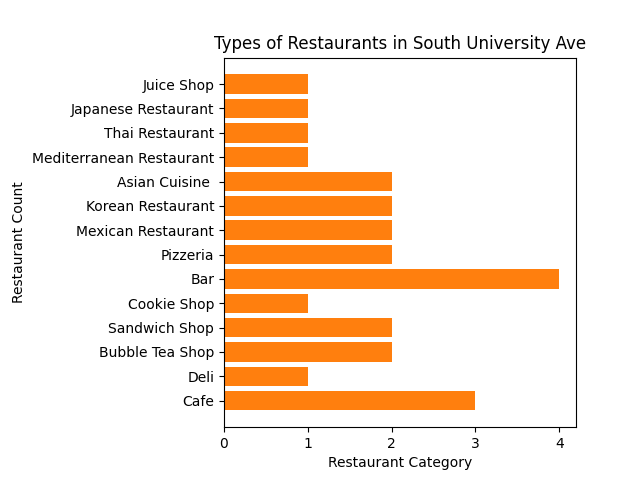
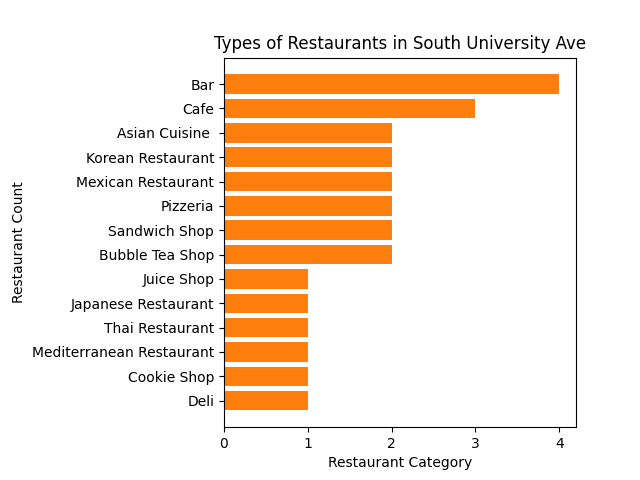
sorting chart

diff --git a/HW8.py b/HW8.py
@@ -45,8 +45,9 @@ def plot_rest_categories(db):
         cur = conn.execute("SELECT COUNT(category_id) FROM restaurants WHERE category_id == ?", (category[0], ))
         count = cur.fetchone()
         dic[category[1]] = count[0]
-    category_name = list(dic.keys())
-    category_count = list(dic.values())
+    sorted_dic = sorted(dic.items(), key=lambda x:x[1])
+    category_name = [i[0] for i in sorted_dic]
+    category_count = [i[1] for i in sorted_dic]
     plt.barh(category_name, category_count)
     plt.xlabel("Restaurant Category")
     plt.ylabel("Restaurant Count")
